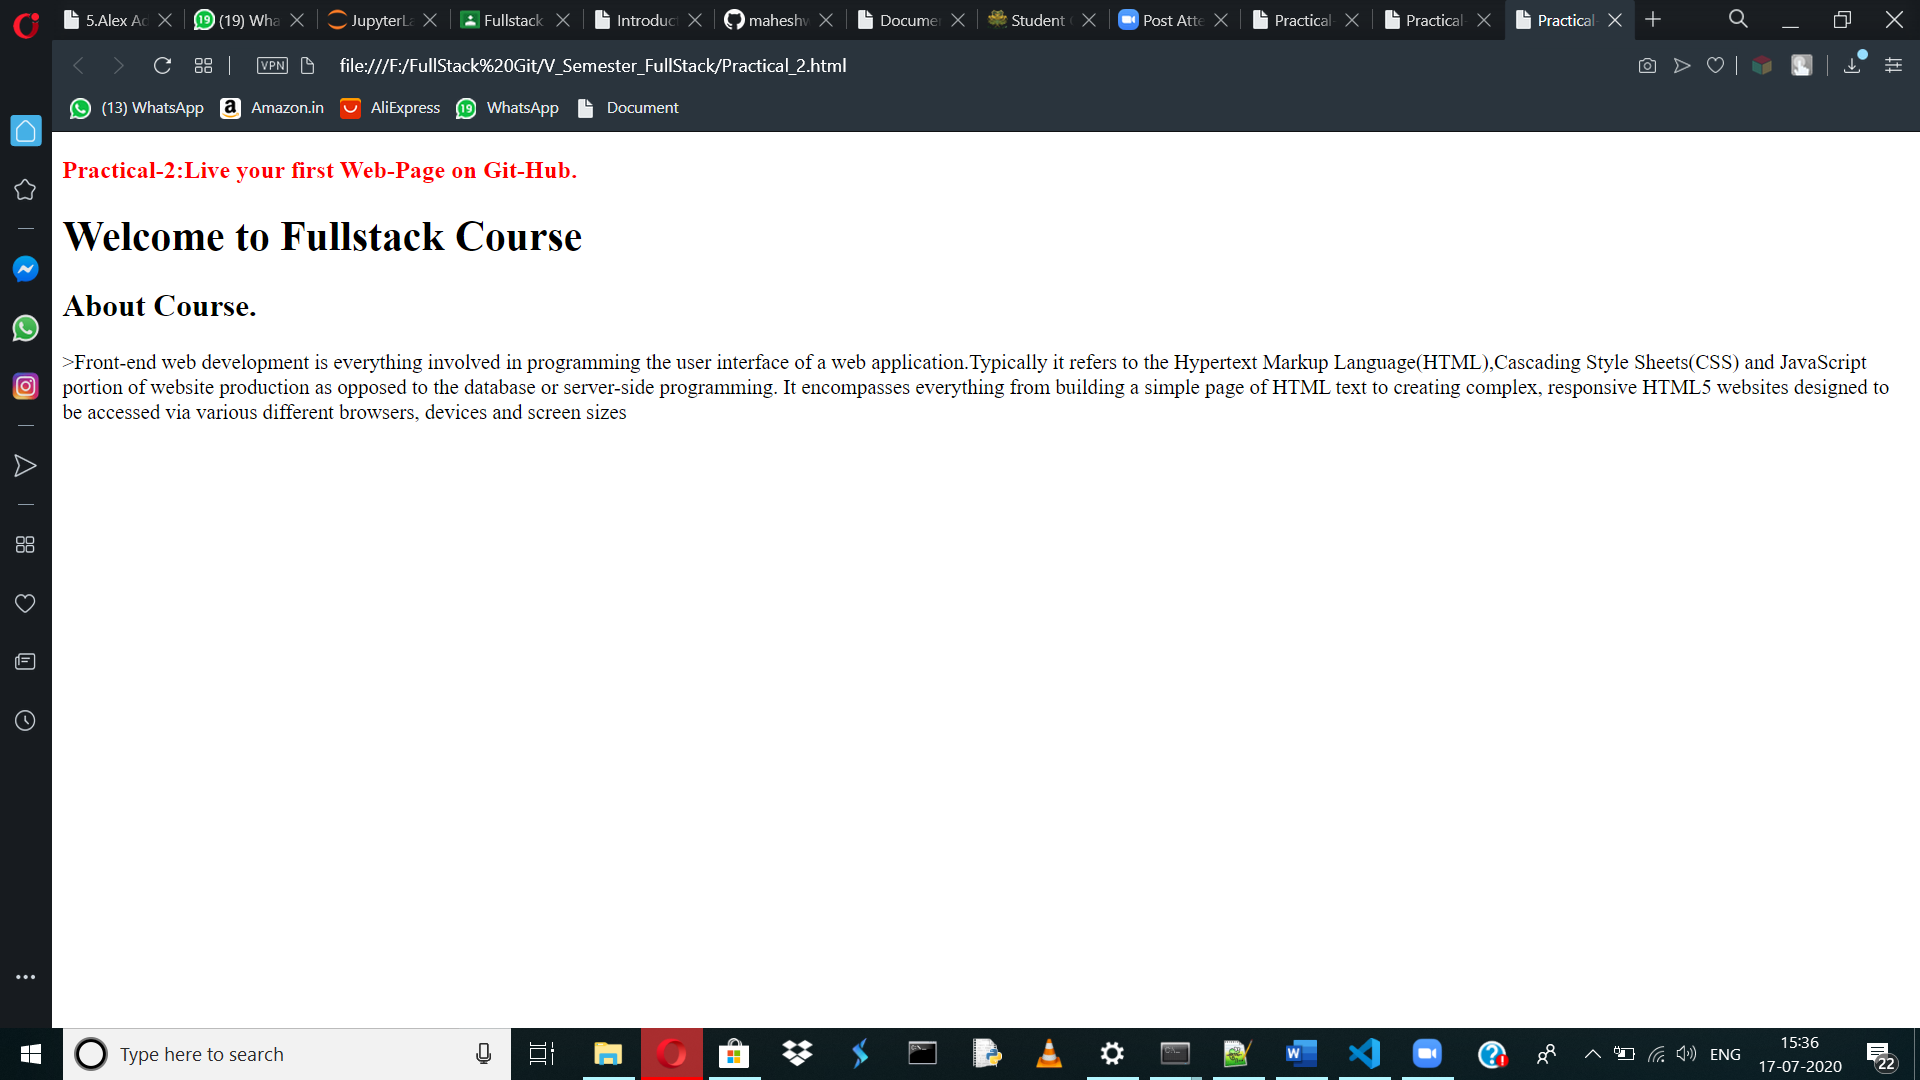
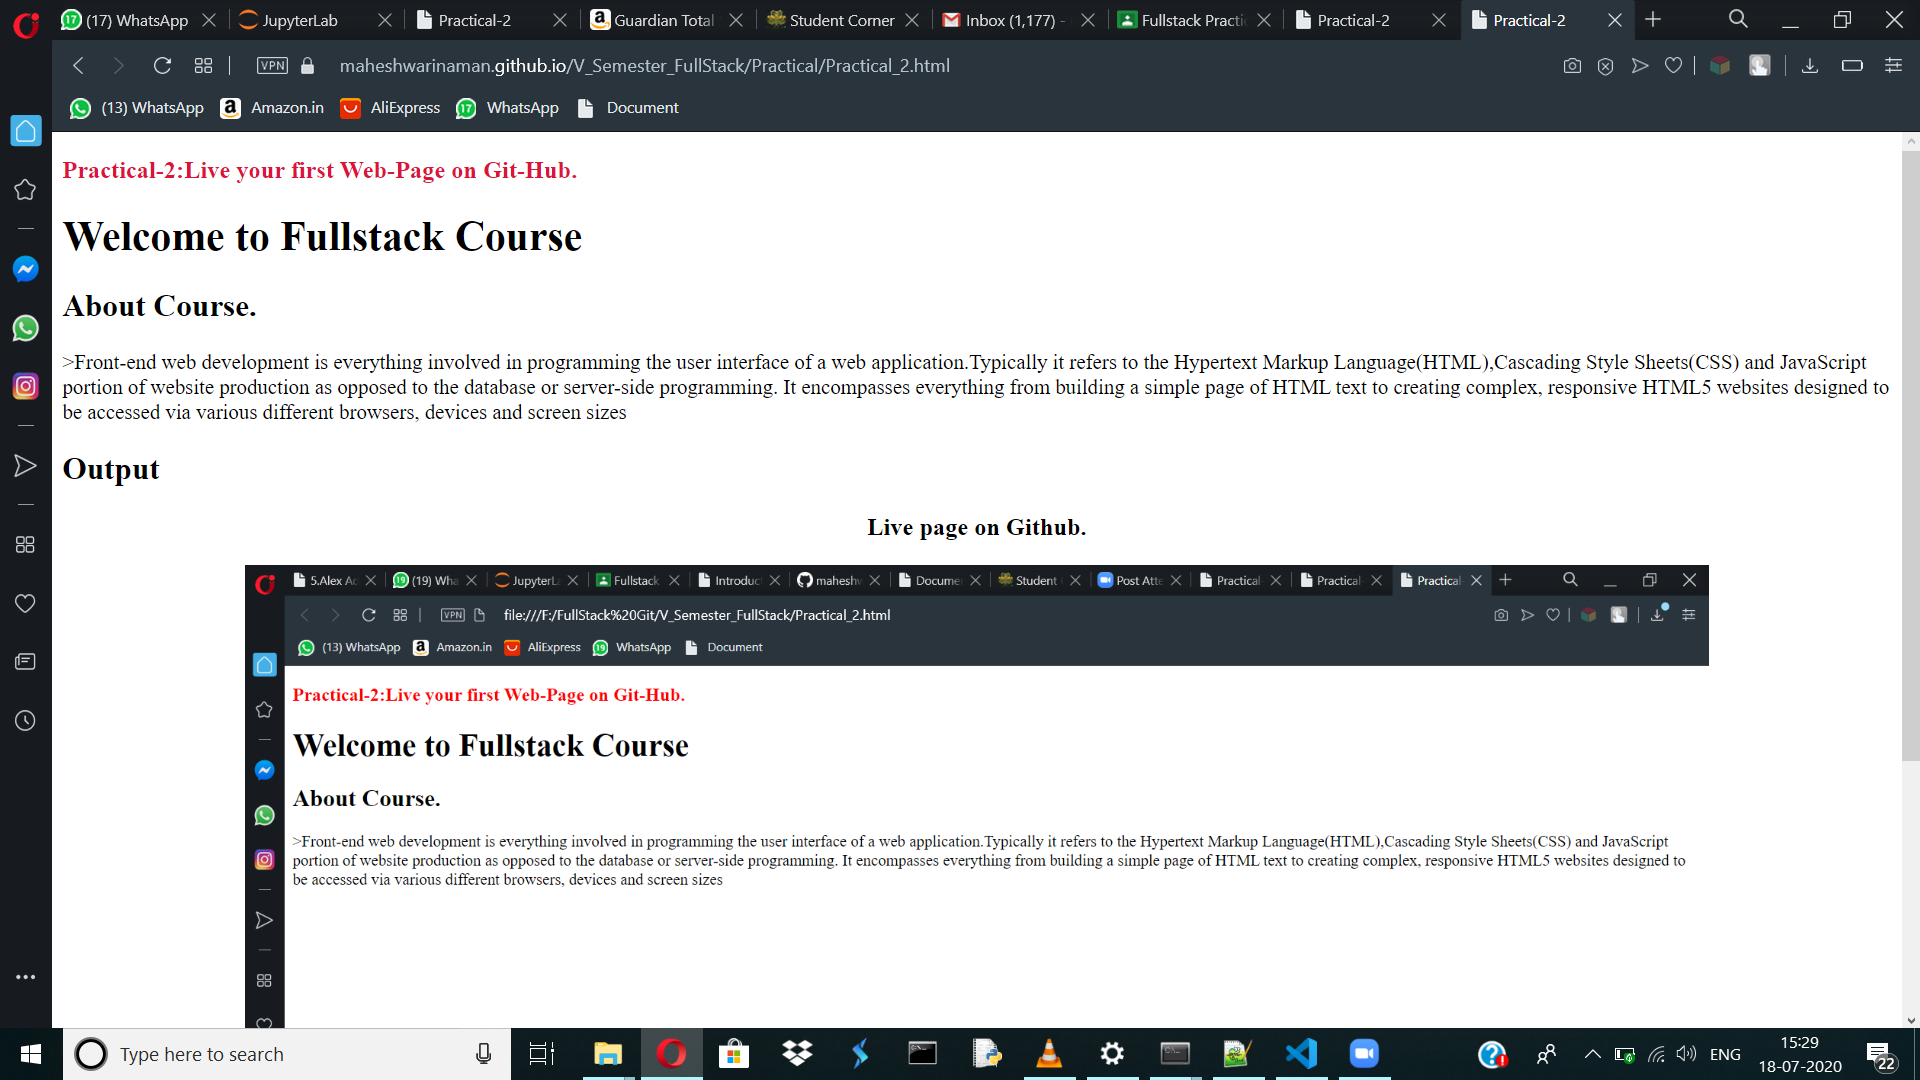
change

diff --git a/Practical/Practical_2.html b/Practical/Practical_2.html
@@ -25,7 +25,8 @@
         simple page of HTML text to creating complex, responsive HTML5 websites designed to be accessed via various
         different browsers, devices and screen sizes</p>
         <h2>Output</h2>
-  
+    <h3 style="text-align: center;">Live page on Github.</h3>
+    <img src="..\image\Practical_2.PNG" alt="Practical-2 image">
 
 </body>
 
